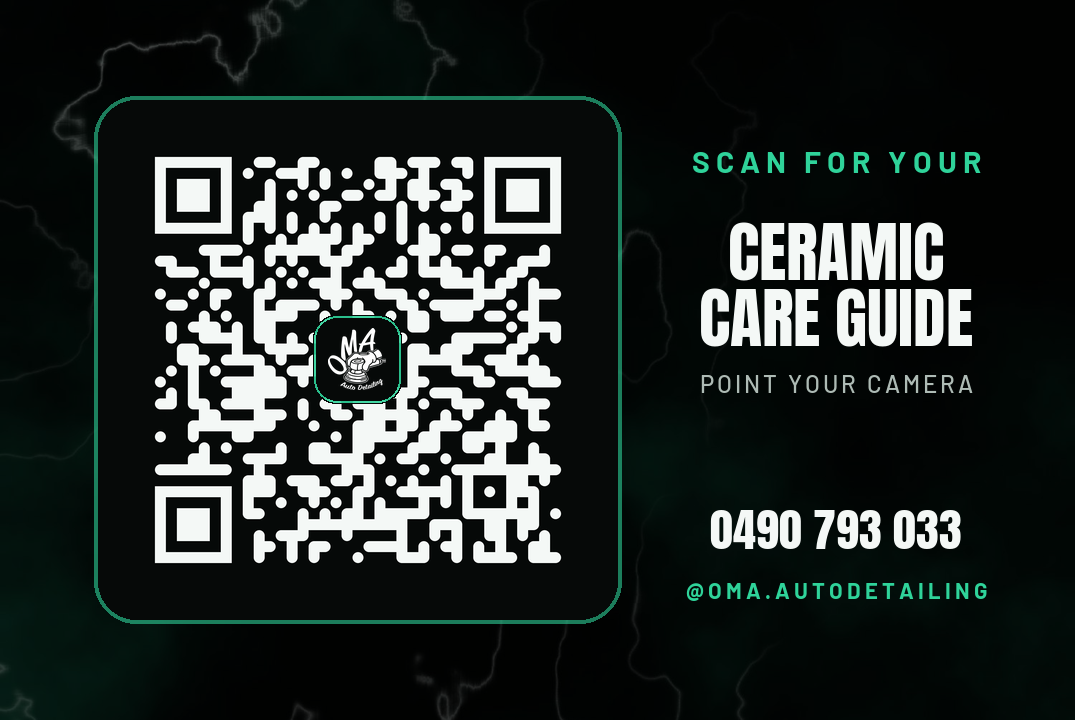
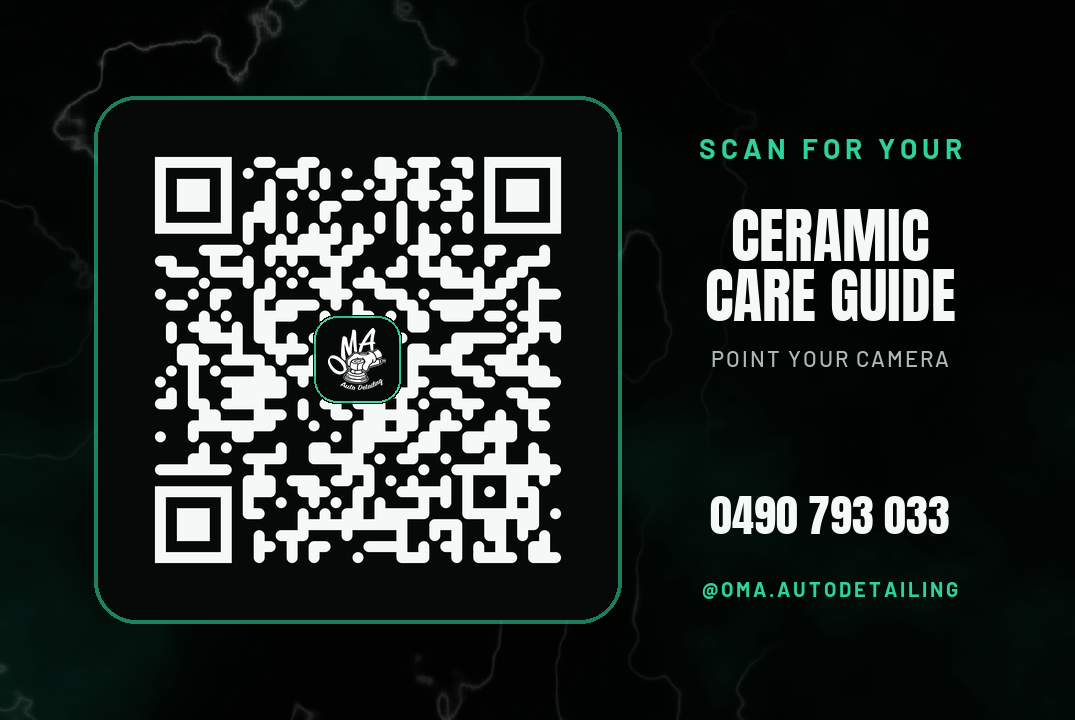
Fix business card front layout; add card generator to repo
Front logo sized down and headline spacing corrected so AFTERCARE GUIDE
no longer overlaps the footer. make_cards.py regenerates both sides + QR.

Claude-Session: https://claude.ai/code/session_01BL4khzH5ehb5xEcWeMpkiV

diff --git a/make_cards.py b/make_cards.py
@@ -1,0 +1,99 @@
+#!/usr/bin/env python
+"""Print-ready ceramic-care business cards (front+back) + QR codes.
+85x55mm @300dpi with 3mm bleed. All QR targets = the live care page."""
+import os
+from PIL import Image, ImageDraw, ImageFont
+import qrcode
+from qrcode.constants import ERROR_CORRECT_H
+from qrcode.image.styledpil import StyledPilImage
+from qrcode.image.styles.moduledrawers.pil import RoundedModuleDrawer
+from qrcode.image.styles.colormasks import SolidFillColorMask
+import cv2, numpy as np
+
+URL="https://care.omaautodetailing.com.au"
+ROOT=os.path.dirname(os.path.abspath(__file__))
+OUT=os.path.join(ROOT,"qr"); os.makedirs(OUT,exist_ok=True)
+A=os.path.join(ROOT,"assets"); LOGO=os.path.join(A,"logo.png"); MARBLE=os.path.join(A,"marble.jpg")
+FD=r"C:\Users\luka3\OMA-stickers\fonts"
+ANTON=os.path.join(FD,"Anton-Regular.ttf"); BAR_B=os.path.join(FD,"Barlow-Bold.ttf"); BAR_M=os.path.join(FD,"Barlow-Medium.ttf")
+EM=(47,211,154); DARK=(6,9,8); WHITE=(244,248,246); MIST=(174,187,181)
+det=cv2.QRCodeDetector(); DPI=300
+def mm(x): return round(x/25.4*DPI)
+BW,BH=mm(91),mm(61); TRIMX,TRIMY=mm(3),mm(3); TW,TH=mm(85),mm(55); SAFE=mm(4)
+def font(f,s): return ImageFont.truetype(f,s)
+def spaced(draw,txt,f,fill,y,cx,tr):
+    ws=[]
+    for ch in txt:
+        bb=draw.textbbox((0,0),ch,font=f); ws.append(bb[2]-bb[0]+tr)
+    tot=sum(ws)-tr; x=cx-tot//2
+    for ch,w in zip(txt,ws): draw.text((x,y),ch,font=f,fill=fill); x+=w
+def marble_bg(dk):
+    m=Image.open(MARBLE).convert("RGB"); r=m.width/m.height; tr=BW/BH
+    if r>tr: nw=int(m.height*tr); m=m.crop(((m.width-nw)//2,0,(m.width-nw)//2+nw,m.height))
+    else: nh=int(m.width/tr); m=m.crop((0,(m.height-nh)//2,m.width,(m.height-nh)//2+nh))
+    return Image.blend(m.resize((BW,BH),Image.LANCZOS),Image.new("RGB",(BW,BH),(0,0,0)),dk)
+def chip(d):
+    c=Image.new("RGBA",(d,d),(0,0,0,0)); cd=ImageDraw.Draw(c)
+    cd.rounded_rectangle([0,0,d-1,d-1],radius=int(d*0.26),fill=DARK+(255,))
+    cd.rounded_rectangle([1,1,d-2,d-2],radius=int(d*0.26),outline=EM+(230,),width=max(2,d//60))
+    lg=Image.open(LOGO).convert("RGBA"); lw=int(d*0.66); lh=round(lg.height*lw/lg.width)
+    c.alpha_composite(lg.resize((lw,lh),Image.LANCZOS),((d-lw)//2,(d-lh)//2)); return c
+def qr_tile(size):
+    qr=qrcode.QRCode(error_correction=ERROR_CORRECT_H,box_size=40,border=3); qr.add_data(URL); qr.make(fit=True)
+    im=qr.make_image(image_factory=StyledPilImage,module_drawer=RoundedModuleDrawer(),
+        color_mask=SolidFillColorMask(front_color=WHITE,back_color=DARK)).convert("RGBA").resize((size,size),Image.LANCZOS)
+    d=int(size*0.19); im.alpha_composite(chip(d),((size-d)//2,(size-d)//2))
+    pad=int(size*0.06); t=Image.new("RGBA",(size+2*pad,)*2,(0,0,0,0)); td=ImageDraw.Draw(t)
+    td.rounded_rectangle([0,0,size+2*pad-1,size+2*pad-1],radius=int(size*0.09),fill=DARK+(255,),outline=EM+(150,),width=4)
+    t.alpha_composite(im,(pad,pad)); return t
+def bracket(dr,x,y,hx,hy,L,w): dr.line([(x,y),(x+hx*L,y)],fill=EM,width=w); dr.line([(x,y),(x,y+hy*L)],fill=EM,width=w)
+
+# BACK
+back=marble_bg(0.55).convert("RGBA"); dr=ImageDraw.Draw(back)
+qsz=mm(40); tile=qr_tile(qsz); tx=TRIMX+SAFE+mm(1); ty=(BH-tile.height)//2
+back.alpha_composite(tile,(tx,ty))
+rcx=(tx+tile.width+mm(4)+(TRIMX+TW-SAFE))//2
+spaced(dr,"SCAN FOR YOUR",font(BAR_B,28),EM,ty+mm(3),rcx,5)
+af=font(ANTON,60)
+for i,l in enumerate(["CERAMIC","CARE GUIDE"]):
+    w=dr.textlength(l,font=af); dr.text((rcx-w/2,ty+mm(8)+i*60),l,font=af,fill=WHITE)
+spaced(dr,"POINT YOUR CAMERA",font(BAR_M,22),MIST,ty+mm(8)+2*60+mm(3),rcx,2)
+nf=font(ANTON,44); num="0490 793 033"; w=dr.textlength(num,font=nf); dr.text((rcx-w/2,ty+tile.height-mm(12)),num,font=nf,fill=WHITE)
+spaced(dr,"@OMA.AUTODETAILING",font(BAR_B,20),EM,ty+tile.height-mm(4),rcx,3)
+back.convert("RGB").save(os.path.join(OUT,"oma-card-BACK.png"),dpi=(DPI,DPI))
+
+# FRONT (fixed layout)
+front=marble_bg(0.42).convert("RGBA"); dr=ImageDraw.Draw(front); cx=BW//2
+top=mm(6)+TRIMY; lg=Image.open(LOGO).convert("RGBA"); lw=mm(20); lh=round(lg.height*lw/lg.width)
+front.alpha_composite(lg.resize((lw,lh),Image.LANCZOS),(cx-lw//2,top))
+ey=top+lh+mm(2); spaced(dr,"CERAMIC COATED",font(BAR_B,26),EM,ey,cx,7)
+hy=ey+mm(6); af=font(ANTON,64)
+for i,l in enumerate(["AFTERCARE","GUIDE"]):
+    w=dr.textlength(l,font=af); dr.text((cx-w/2,hy+i*62),l,font=af,fill=WHITE)
+spaced(dr,"OMA AUTO DETAILING . LOCKYER VALLEY QLD",font(BAR_M,19),MIST,BH-TRIMY-mm(6),cx,1)
+for x,y,hx,hy2 in [(TRIMX+SAFE,TRIMY+SAFE,1,1),(BW-TRIMX-SAFE,TRIMY+SAFE,-1,1),(TRIMX+SAFE,BH-TRIMY-SAFE,1,-1),(BW-TRIMX-SAFE,BH-TRIMY-SAFE,-1,-1)]:
+    bracket(dr,x,y,hx,hy2,mm(5),4)
+front.convert("RGB").save(os.path.join(OUT,"oma-card-FRONT.png"),dpi=(DPI,DPI))
+
+# standalone QR
+qr_tile(mm(50)).convert("RGB").save(os.path.join(OUT,"oma-qr-branded.png"))
+sqr=qrcode.QRCode(error_correction=ERROR_CORRECT_H,box_size=40,border=4); sqr.add_data(URL); sqr.make(fit=True)
+std=sqr.make_image(image_factory=StyledPilImage,module_drawer=RoundedModuleDrawer(),
+    color_mask=SolidFillColorMask(front_color=(9,17,14),back_color=(255,255,255))).convert("RGBA")
+sd=int(std.size[0]*0.18); std.alpha_composite(chip(sd),((std.size[0]-sd)//2,(std.size[1]-sd)//2))
+std.convert("RGB").save(os.path.join(OUT,"oma-qr-standard.png"))
+
+# preview + verify
+def guide(im):
+    im=im.copy(); d=ImageDraw.Draw(im); d.rectangle([TRIMX,TRIMY,BW-TRIMX,BH-TRIMY],outline=(255,80,110),width=2); return im
+gap=40; prev=Image.new("RGB",(BW*2+gap,BH+96),(20,22,21)); pd=ImageDraw.Draw(prev)
+prev.paste(guide(front.convert("RGB")),(0,60)); prev.paste(guide(back.convert("RGB")),(BW+gap,60))
+lf=font(BAR_B,28); pd.text((10,18),"FRONT",font=lf,fill=(255,255,255)); pd.text((BW+gap+10,18),"BACK (QR)",font=lf,fill=(255,255,255))
+pd.text((10,BH+66),"red line = trim (85x55mm). art bleeds past it. print double-sided.",font=font(BAR_M,20),fill=MIST)
+prev.save(os.path.join(OUT,"oma-card-PREVIEW.png"))
+def decode(im,inv=True):
+    a=np.array(im.convert("RGB").resize((900,int(900*im.height/im.width)),Image.LANCZOS))[:,:,::-1].copy()
+    if inv:a=255-a
+    v,_,_=det.detectAndDecode(a); return v
+rb=decode(back); rs=decode(std.convert("RGB"),inv=False)
+print("QR",round(qsz/DPI*25.4,1),"mm | BACK:",repr(rb),"| STD:",repr(rs),"|","PASS" if rb==URL and rs==URL else "FAIL")
